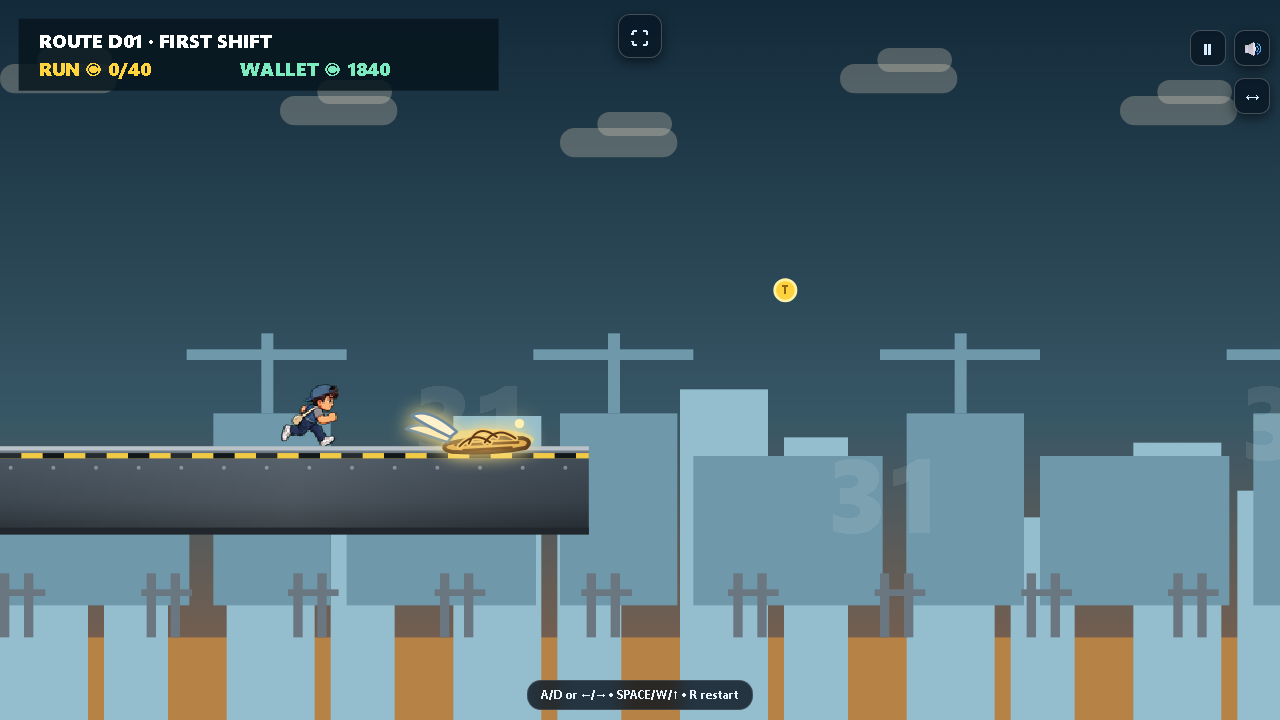
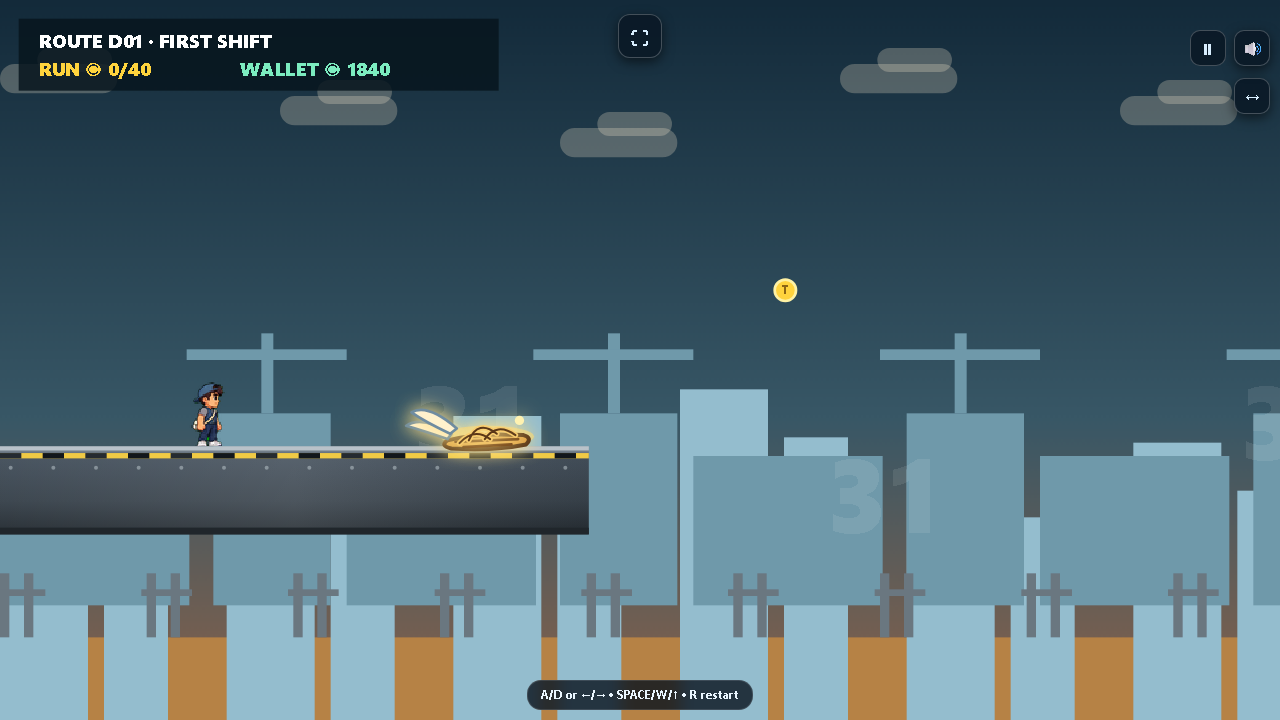
Scope Hermes shoes to jump hints

Changed region(s): [[0.3125, 0.55, 0.4375, 0.6417], [0.2188, 0.5194, 0.2812, 0.6111], [0.125, 0.5194, 0.1875, 0.6417]]

diff --git a/js/a12-campaign.js b/js/a12-campaign.js
@@ -1007,52 +1007,47 @@ if(D09_OPENING_FIX){
   if(D09_G2_BLOCK)D09_G2_BLOCK.w=320;
 }
   const JUMP_HINT_ZONE_IDS=Object.freeze({
-    D01:["d01-dz-02"],
+    D01:["d01-dz-01","d01-dz-02"],
     D02:["d02-dz-01"],
     D03:["d03-dz-01","d03-dz-02","d03-dz-03"],
     D04:["d04-dz-01","d04-dz-02","d04-dz-03"],
     D05:["d05-dz-01","d05-dz-02","d05-dz-03"],
     D06:["d06-dz-01","d06-dz-02","d06-dz-03","d06-dz-04"],
     D07:["d07-dz-01","d07-dz-02","d07-hj-01","d07-dz-03","d07-dz-04a","d07-dz-04"],
-    D08:["d08-dz-01","d08-dz-02","d08-dz-03","d08-dz-04","d08-dz-05-assist","d08-dz-05b-assist","d08-dz-05","d08-dz-06-assist","d08-dz-06","d08-dz-07-assist","d08-dz-07"],
-    D09:["d09-highjump500-11","d09-highjump500-25","d09-highjump500-29","d09-highjump500-33"],
-    D10:["d10-dz-02","d10-dz-03","d10-dz-05","d10-dz-06","d10-dz-06-assist","d10-dz-07","d10-dz-07-assist","d10-dz-08","d10-dz-09","d10-dz-10","d10-dz-11"],
-    D11:["d11-dz-02","d11-dz-03","d11-dz-04","d11-dz-06","d11-dz-07","d11-dz-08","d11-dz-09","d11-dz-10"],
-    D12:["d12-dz-02","d12-dz-03","d12-dz-04","d12-dz-06","d12-dz-07","d12-dz-08","d12-dz-09"],
-    D13:["d13-dz-02","d13-dz-03","d13-dz-04","d13-dz-05","d13-dz-06","d13-dz-07","d13-dz-08","d13-dz-10"],
+    D08:["d08-dz-01","d08-dz-02","d08-dz-03","d08-dz-04","d08-dz-05-assist","d08-dz-05b-assist","d08-dz-05","d08-dz-06","d08-dz-07-assist","d08-dz-07"],
+    D09:["d09-highjump500-06","d09-highjump500-11","d09-highjump500-25","d09-highjump500-29","d09-highjump500-33"],
+    D10:["d10-dz-01","d10-dz-02","d10-dz-03","d10-dz-05","d10-dz-06","d10-dz-06-assist","d10-dz-07","d10-dz-07-assist","d10-dz-08","d10-dz-09","d10-dz-10","d10-dz-11"],
+    D11:["d11-dz-01","d11-dz-02","d11-dz-03","d11-dz-04","d11-dz-06","d11-dz-07","d11-dz-08","d11-dz-09","d11-dz-10"],
+    D12:["d12-dz-01","d12-dz-02","d12-dz-03","d12-dz-04","d12-dz-06","d12-dz-07","d12-dz-08","d12-dz-09"],
+    D13:["d13-dz-01","d13-dz-02","d13-dz-03","d13-dz-04","d13-dz-05","d13-dz-06","d13-dz-07","d13-dz-08","d13-dz-10"],
     D14:["d14-dz-01","d14-dz-02","d14-dz-03","d14-dz-04","d14-dz-05","d14-dz-06","d14-dz-07"],
-    D15:["d15-dz-02","d15-dz-03","d15-dz-04","d15-dz-05","d15-dz-06","d15-dz-07","d15-dz-08"],
-    D16:["d16-dz-01","d16-dz-02","d16-dz-03","d16-dz-04","d16-dz-05","d16-dz-06","d16-dz-08","d16-dz-09"],
-    D17:["d17-p1-f04-dz-02","d17-p1-f04-dz-03","d17-p2-m03-dz-08","d17-p2-m03-dz-09","d17-p2-m03-dz-10"],
+    D15:["d15-dz-01","d15-dz-02","d15-dz-03","d15-dz-04","d15-dz-05","d15-dz-06","d15-dz-07","d15-dz-08"],
+    D16:["d16-dz-01","d16-dz-02","d16-dz-03","d16-dz-04","d16-dz-05","d16-dz-06","d16-dz-08"],
+    D17:["d17-p1-f04-dz-01","d17-p1-f04-dz-02","d17-p1-f04-dz-03","d17-p2-m03-dz-08","d17-p2-m03-dz-09","d17-p2-m03-dz-10"],
     D18:["d18-p1-a01-dz-01","d18-p1-a01-dz-02","d18-p1-a01-dz-03","d18-p1-a01-dz-04","d18-p2-f03-dz-07","d18-p2-f03-dz-08","d18-p2-f03-dz-09","d18-p2-f03-dz-10","d18-p2-f03-dz-11","d18-p2-f03-dz-12"],
     F01:["f01-p1-d07-dz-01","f01-p1-d07-dz-02","f01-p1-d07-dz-03","f01-p2-d13-dz-08","f01-p2-d13-dz-09","f01-p2-d13-dz-10"],
     F02:["f02-p1-d08-dz-01","f02-p1-d08-dz-02","f02-p1-d08-dz-03","f02-p1-d08-dz-04","f02-p1-d08-dz-05","f02-p1-d08-dz-06","f02-p1-d08-dz-07","f02-p2-d14-dz-05","f02-p2-d14-dz-06","f02-p2-d14-dz-07"],
-    F03:["f03-p2-d10-dz-01","f03-p2-d10-dz-02","f03-p2-d10-dz-03","f03-p3-d12-dz-01","f03-p3-d12-dz-02","f03-p3-d12-dz-03","f03-p3-d12-dz-04"],
+    F03:["f03-p1-d09-dz-01","f03-p2-d10-dz-01","f03-p2-d10-dz-02","f03-p2-d10-dz-03","f03-p3-d12-dz-01","f03-p3-d12-dz-02","f03-p3-d12-dz-03","f03-p3-d12-dz-04"],
     F04:["f04-p1-d02-dz-01","f04-p3-d01-dz-01"],
   });
   jumpHintZoneSets=new Map(Object.entries(JUMP_HINT_ZONE_IDS).map(([id,zones])=>[id,new Set(zones)]));
-  function hermesPeakForZone(z,kind){return z.peakY??(kind==="high"?Math.min(z.landY??455,455)-122:Math.min(z.landY??455,455)-93)}
+  function hermesPeakForZone(z,kind){
+    if(z.peakY!=null)return z.peakY;
+    const longDive=kind==="dive"&&Number.isFinite(z.landX)&&Number.isFinite(z.x1)&&z.landX-z.x1>780;
+    return kind==="high"?Math.min(z.landY??455,455)-122:Math.min(z.landY??455,455)-(longDive?220:93);
+  }
   function toHermesZone(z,kind){
-    const landX=kind==="wall"?(z.exitX??z.x2):z.landX, landY=kind==="wall"?(z.exitY??z.yTop):z.landY;
+    const landX=z.landX, landY=z.landY;
     if(!Number.isFinite(z.x1)||!Number.isFinite(z.x2)||!Number.isFinite(landX)||!Number.isFinite(landY))return null;
     return {id:`hermes-${z.id}`,sourceId:z.id,kind,x1:z.x1,x2:z.x2,landX,landY,peakY:hermesPeakForZone({...z,landY},kind)};
   }
   function buildHermesLaunchZones(routeId,route){
     if(!HERMES_ROUTE_IDS.has(routeId))return [];
+    const ids=new Set(JUMP_HINT_ZONE_IDS[routeId]||[]);
     const zones=[
-      ...(route.diveZones||[]).map(z=>toHermesZone(z,"dive")),
-      ...(route.highJumpZones||[]).map(z=>toHermesZone(z,"high")),
-      ...(route.wallJumpZones||[]).map(z=>toHermesZone(z,"wall")),
+      ...(route.diveZones||[]).filter(z=>ids.has(z.id)).map(z=>toHermesZone(z,"dive")),
+      ...(route.highJumpZones||[]).filter(z=>ids.has(z.id)).map(z=>toHermesZone(z,"high")),
     ].filter(Boolean);
-    const surfaces=(route.groundSegments||[]).filter(s=>s.kind==="ground"&&Number.isFinite(s.x)&&Number.isFinite(s.w)&&Number.isFinite(s.y)&&s.w>=18).sort((a,b)=>a.x-b.x);
-    for(const s of surfaces){
-      const end=s.x+s.w;
-      const next=surfaces.find(n=>n.x>end+12&&n.x-end<=760&&Math.abs(n.y-s.y)<=560);
-      if(!next)continue;
-      const x1=Math.max(s.x+8,end-90),x2=end-8,landX=next.x+Math.min(44,Math.max(18,next.w*.35)),landY=next.y;
-      if(zones.some(z=>x1<=z.x2+90&&x2>=z.x1-90))continue;
-      zones.push({id:`hermes-gap-${routeId.toLowerCase()}-${s.id}-to-${next.id}`,sourceId:`${s.id}->${next.id}`,kind:"gap",x1,x2,landX,landY,peakY:Math.min(s.y,landY)-120});
-    }
     if(routeId==="D09")zones.unshift({id:"d09-hermes-opening-gap",sourceId:"d09-opening-gap",kind:"gap",x1:280,x2:324,landX:403.44,landY:151.875,peakY:58});
     const seen=new Set();
     return zones.filter(z=>{if(seen.has(z.id))return false;seen.add(z.id);return true}).sort((a,b)=>a.x1-b.x1);
@@ -1332,7 +1327,6 @@ if(D09_OPENING_FIX){
     diveRun = null,
     jumpRun = null,
     wallJumpRun = null,
-    hermesAssist = {x:0,t:0},
     slopeContact = null,
     routeStartedAt = 0,
     movingPlatforms = [],
@@ -1575,7 +1569,6 @@ if(D09_OPENING_FIX){
     diveRun = null;
     jumpRun = null;
     wallJumpRun = null;
-    hermesAssist = {x:0,t:0};
     slopeContact = null;
     flowFlash = 0;
     staggerT = 0;
@@ -1870,20 +1863,6 @@ if(D09_OPENING_FIX){
     if(started){keys.jump=false;vectorJumpPending=null;addFlow(o.id,z.kind,10);emitGame("movement_started",{routeId,obstacleId:o.id,kind:z.kind});}
     return !!started;
   }
-  function tryAutoObstacleMove(){
-    if(route.movementProfile!=="vector-v1"||!keys.right||engine.parkour.state!=="normal"||edgeClimb||wallJumpRun||diveRun||jumpRun)return false;
-    const center=player.x+player.w/2;
-    const o=(route.obstacles||[]).find(v=>(v.type==="vault"||v.type==="slide")&&center>=v.x-82&&center<=v.x+Math.max(v.w,42));
-    if(!o)return false;
-    if(o.type==="slide"&&!player.onGround)return false;
-    if(o.type==="vault"&&!player.onGround)return false;
-    const y=(o.baseY??routeGroundYAt(o.x))-o.h;
-    const cfg={x:o.x,y,w:o.w,endX:o.type==="vault"?o.x+20:o.x+Math.max(34,o.w+18),top:y-Math.max(44,Math.min(82,o.h+18))};
-    if(![cfg.x,cfg.y,cfg.w].every(finiteMove))return false;
-    const started=engine.startParkourMove?.(o.type,cfg);
-    if(started){keys.jump=false;vectorJumpPending=null;addFlow(o.id,o.type,8);emitGame("movement_started",{routeId,obstacleId:o.id,kind:o.type,auto:true});}
-    return !!started;
-  }
   function tryHermesLaunch(){
     if(engine.parkour.state!=="normal"||edgeClimb||wallJumpRun||diveRun||jumpRun)return false;
     const center=player.x+player.w/2,z=(route.hermesLaunchZones||[]).find(v=>center>=v.x1&&center<=v.x2);
@@ -1895,40 +1874,20 @@ if(D09_OPENING_FIX){
     const endX=(z.landX??((z.x1+z.x2)/2))-player.w/2,landY=(z.landY??routeGroundYAt(z.landX))-player.h;
     const dx=Math.abs(endX-startX),top=z.peakY??Math.min(startY,landY)-110;
     const Tb=Math.sqrt(Math.max(0,2*(startY-top)/1450))+Math.sqrt(Math.max(0,2*(landY-top)/1450));
-    const vx=Math.max(dx/Math.max(.001,Tb),Math.abs(player.vx),255),duration=dx>0?dx/vx:Tb;
+    const vx=Math.max(dx/Math.max(.001,Tb),Math.abs(player.vx),520),duration=dx>0?dx/vx:Tb;
     const vy0=(landY-startY-725*duration*duration)/Math.max(.001,duration);
     const nextJump={elapsed:0,duration,vy0,startX,startY,endX,landY,dir,hermes:true,zoneId:z.id};
     if(!validArcRun(nextJump))return false;
-    jumpRun=nextJump;player.onGround=false;player.vx=(endX-startX)/duration;player.vy=vy0;keys.jump=false;vectorJumpPending=null;frontFlip.active=false;
+    jumpRun=nextJump;player.onGround=false;player.vx=(endX-startX)/duration;player.vy=vy0;keys.jump=false;vectorJumpPending=null;frontFlip.active=false;invulnerableT=Math.max(invulnerableT,duration+.12);
     addFlow(z.id,"hermesLaunch",14);emitGame("movement_started",{routeId,obstacleId:z.id,kind:"hermesLaunch"});sfx("ramp");
     return true;
-  }
-  function tryHermesStuckAssist(dt){
-    const pk=engine.parkour.state, recoverParkour=pk==="vault"||pk==="slide";
-    if(route.movementProfile!=="vector-v1"||!keys.right||(!player.onGround&&!recoverParkour)||(pk!=="normal"&&!recoverParkour)||edgeClimb||wallJumpRun||diveRun||jumpRun){hermesAssist={x:player.x,t:0};return false;}
-    if(Math.abs(player.x-hermesAssist.x)>4){hermesAssist={x:player.x,t:0};return false;}
-    hermesAssist.t+=dt;
-    if(hermesAssist.t<(recoverParkour?.55:.32))return false;
-    const center=player.x+player.w/2;
-    const next=routeSurfaces(route).filter(s=>s.kind==="ground"&&s.x>center+14).sort((a,b)=>a.x-b.x)[0];
-    const z=next
-      ? {id:`hermes-assist-${routeId}-${Math.round(center)}`,x1:center-8,x2:center+8,landX:next.x+Math.min(44,Math.max(18,next.w*.35)),landY:next.y,peakY:Math.min(player.y+player.h,next.y)-120}
-      : route.finishX-center<260
-        ? {id:`hermes-assist-finish-${routeId}`,x1:center-8,x2:center+8,landX:route.finishX-8,landY:routeGroundYAt(route.finishX-8),peakY:Math.min(player.y+player.h,routeGroundYAt(route.finishX-8))-80}
-        : null;
-    if(!z){hermesAssist={x:player.x,t:0};return false;}
-    hermesAssist={x:player.x,t:0};
-    if(recoverParkour){engine.parkour.state="normal";engine.parkour.timer=0;}
-    return launchHermesArc(z);
   }
   function beforePhysicsIntegrated(dt) {
     if (!campaign || shopOpen || result) return;
     gameClock += dt;
     if(edgeClimb){engine.parkour.state="normal";engine.parkour.timer=0}
     tryHermesLaunch();
-    if(!(route.routeId==="D09"&&player.x+player.w/2<660&&tryScriptedMove(true)))tryScriptedMove();
-    tryAutoObstacleMove();
-    tryHermesStuckAssist(dt);
+    tryScriptedMove();
     const d07SlideJump=route.routeId==="D07"&&engine.parkour.state==="slide";
     beginWallJump();
     if(route.movementProfile==="vector-v1"&&keys.jump&&(player.onGround||d07SlideJump)&&!edgeClimb){
